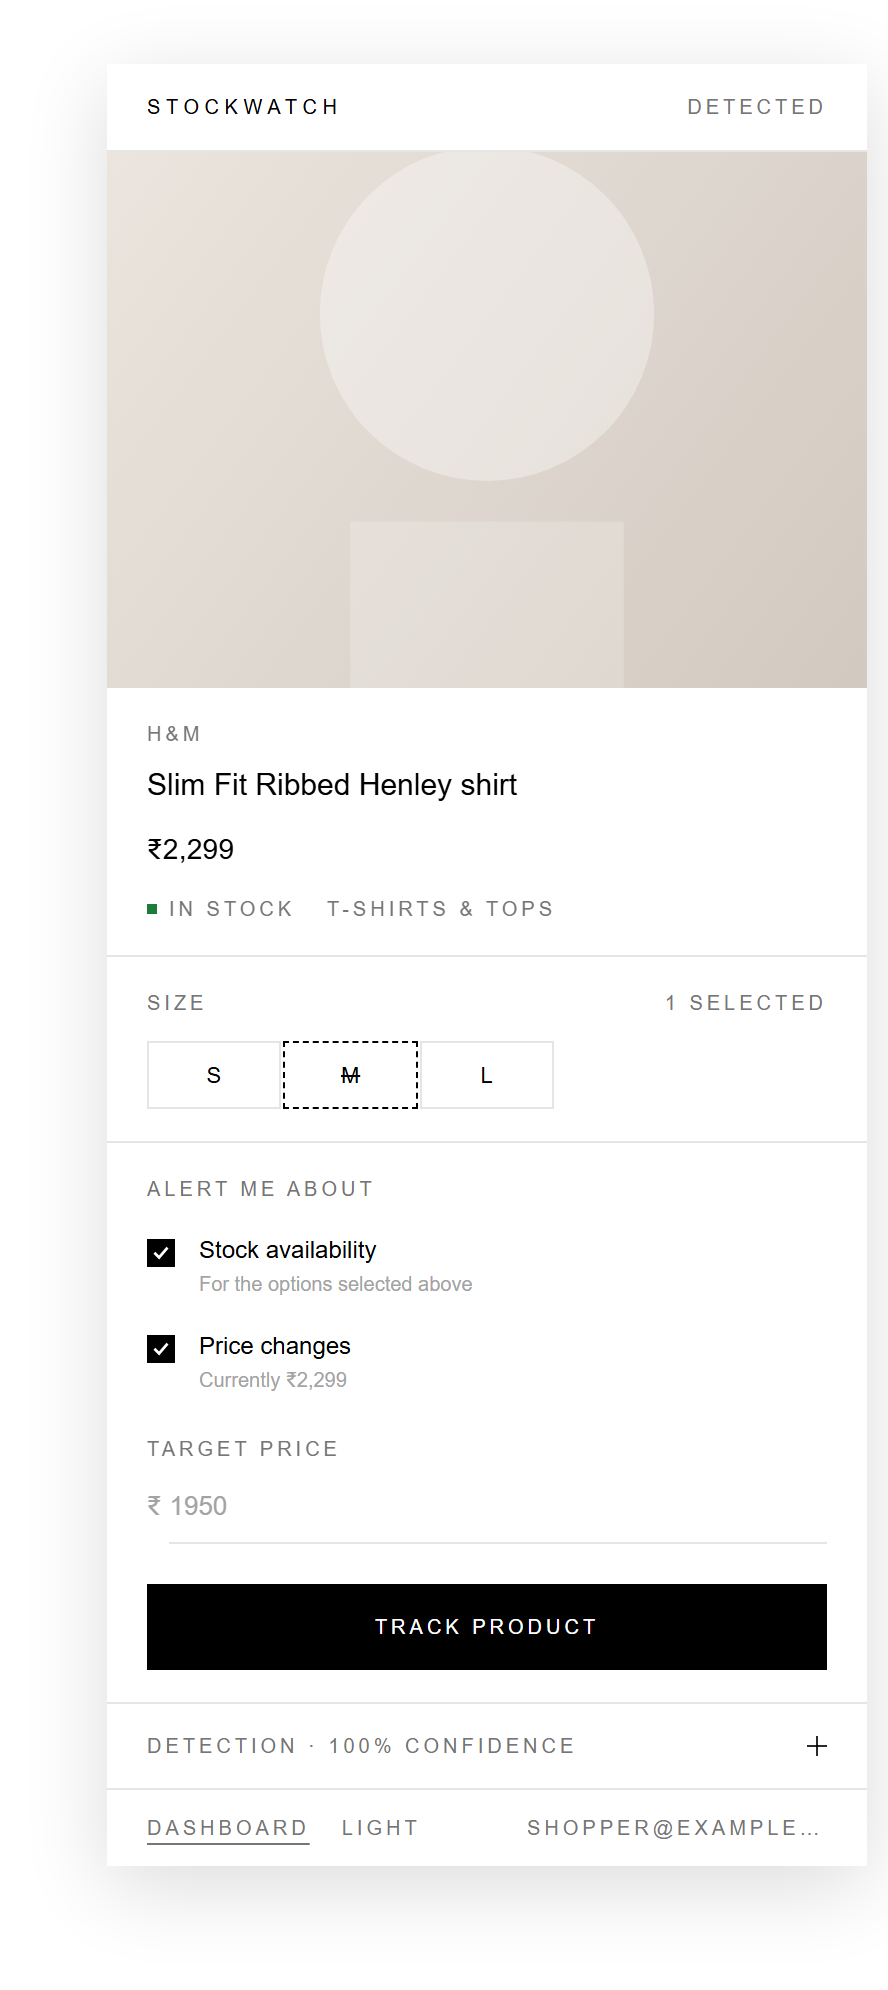
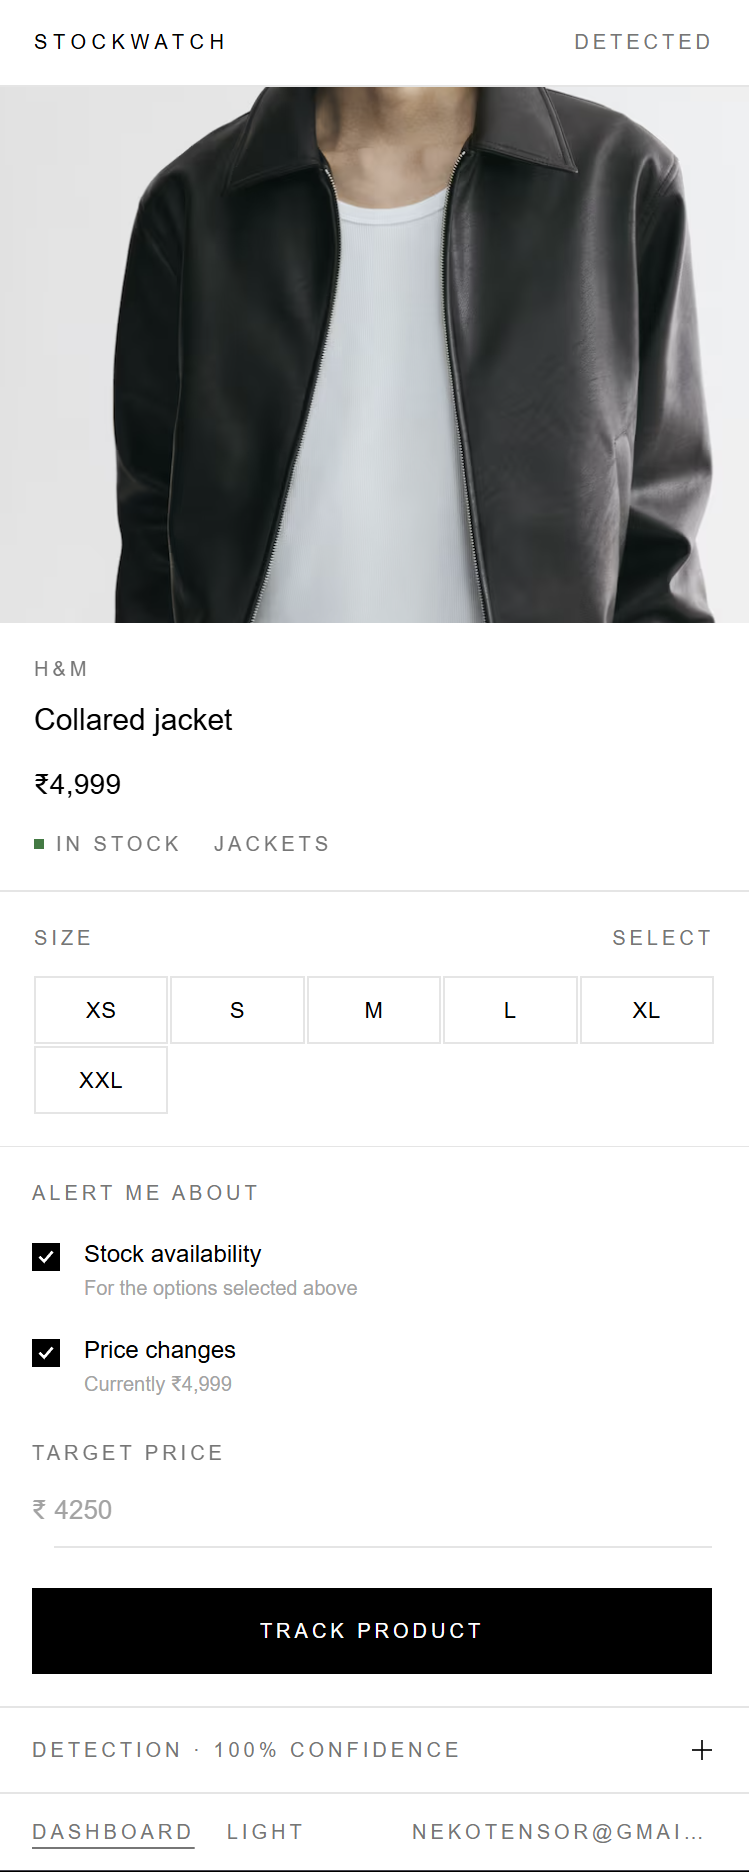
docs: replace the mock screenshots with the running extension
Real captures against live store pages, with real product photography, in place
of the fixture-driven ones with abstract placeholder panels.

The popup was two overlapping captures, since it is taller than the screen.
They are joined at the hairline rule above "Alert me about", which both contain,
so the seam falls on an existing line rather than an arbitrary row.

Also fixes what the dashboard capture exposed: a freshly tracked product read
"Checked never checked", because a sentence was being composed from "Checked "
and a relative time that had nothing to be relative to. It now says "Not checked
yet" as a whole phrase.

diff --git a/extension/src/dashboard/components/ProductCard.tsx b/extension/src/dashboard/components/ProductCard.tsx
@@ -11,8 +11,7 @@ import type { TrackedProductOut } from '../../lib/api';
 import { formatPrice } from '../../lib/price';
 import { StockLabel } from '../../popup/components/ui';
 
-function relativeTime(iso: string | null): string {
-  if (!iso) return 'never checked';
+function relativeTime(iso: string): string {
   const then = new Date(iso).getTime();
   const minutes = Math.round((Date.now() - then) / 60000);
   if (minutes < 1) return 'just now';
@@ -20,6 +19,22 @@ function relativeTime(iso: string | null): string {
   const hours = Math.round(minutes / 60);
   if (hours < 24) return `${hours} h ago`;
   return `${Math.round(hours / 24)} d ago`;
+}
+
+/**
+ * The whole phrase, not a fragment.
+ *
+ * Composing "Checked " with a relative time is fine right up until there is no
+ * time to be relative to, at which point a freshly tracked product reads
+ * "Checked never checked".
+ */
+function lastCheckedLabel(product: TrackedProductOut): string {
+  if (!product.last_checked_at) return 'Not checked yet';
+
+  const when = relativeTime(product.last_checked_at);
+  return product.last_check_status && product.last_check_status !== 'ok'
+    ? `Check ${product.last_check_status} · ${when}`
+    : `Checked ${when}`;
 }
 
 interface Props {
@@ -108,11 +123,7 @@ export function ProductCard({ product, onOpen, onPauseToggle, onDelete, onCheck,
             ) : null}
           </div>
 
-          <div className="sw-label mt-1.5">
-            {product.last_check_status === 'ok' || !product.last_check_status
-              ? `Checked ${relativeTime(product.last_checked_at)}`
-              : `Check ${product.last_check_status} · ${relativeTime(product.last_checked_at)}`}
-          </div>
+          <div className="sw-label mt-1.5">{lastCheckedLabel(product)}</div>
         </div>
       </button>
 

diff --git a/README.md b/README.md
@@ -101,7 +101,7 @@ its record low, what came back in stock, what a purchase would save you today.
 <table>
 <tr>
 <td width="42%">
-<img src="docs/assets/popup.png" alt="StockWatch popup — the detected product with its store, name, sale price, struck-through original, size grid, alert options and a Track product button" />
+<img src="docs/assets/popup.png" alt="StockWatch popup on an H&M product page: store, product name, price, stock state, category, the full size grid, alert options, a target price field and a Track product button" />
 </td>
 <td valign="top">
 
@@ -121,9 +121,8 @@ correctly fell through to the DOM".
 </tr>
 </table>
 
-<sub>Screenshots use placeholder imagery in place of retailers' product
-photography; everything else is the real interface, rendered by the preview
-harness described under <a href="#testing">Testing</a>.</sub>
+<sub>Both screenshots are the extension running against live store pages.
+Product photography belongs to the retailers.</sub>
 
 ## Quick start
 
